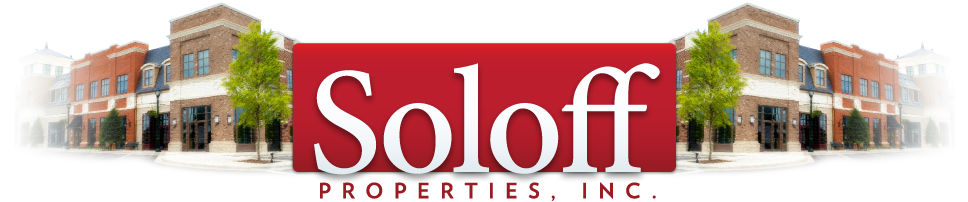
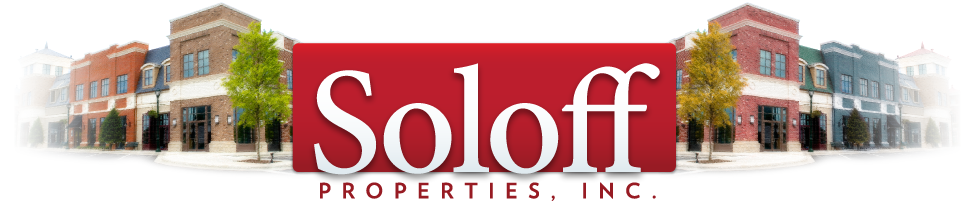
Modified masthead.

Changed region(s): [[0.6818, 0.0594, 0.9298, 0.7426]]

diff --git a/stylesheets/sass/main.sass b/stylesheets/sass/main.sass
@@ -24,7 +24,7 @@ h1
   width: 53.778em
   height: 11.222em
   margin: 0 auto
-  background: url("../img/masthead.png") no-repeat top center
+  background: url("../img/masthead.png?v2") no-repeat top center
 h2
   font-size: 3.556em
   text-align: center

diff --git a/stylesheets/main.css b/stylesheets/main.css
@@ -19,7 +19,7 @@ h1 {
   width: 53.778em;
   height: 11.222em;
   margin: 0 auto;
-  background: url("../img/masthead.png") no-repeat top center; }
+  background: url("../img/masthead.png?v2") no-repeat top center; }
 
 h2 {
   font-size: 3.556em;
